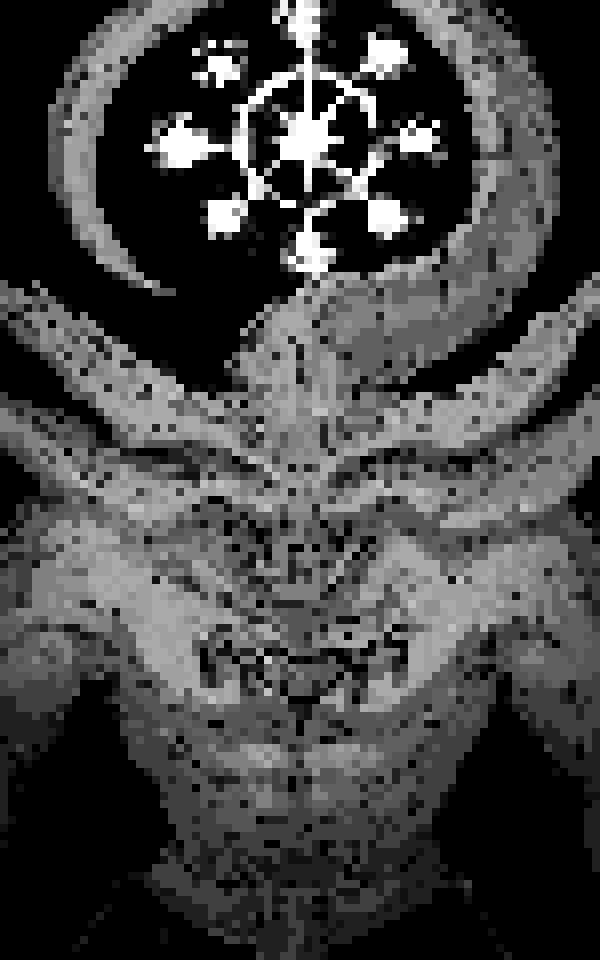
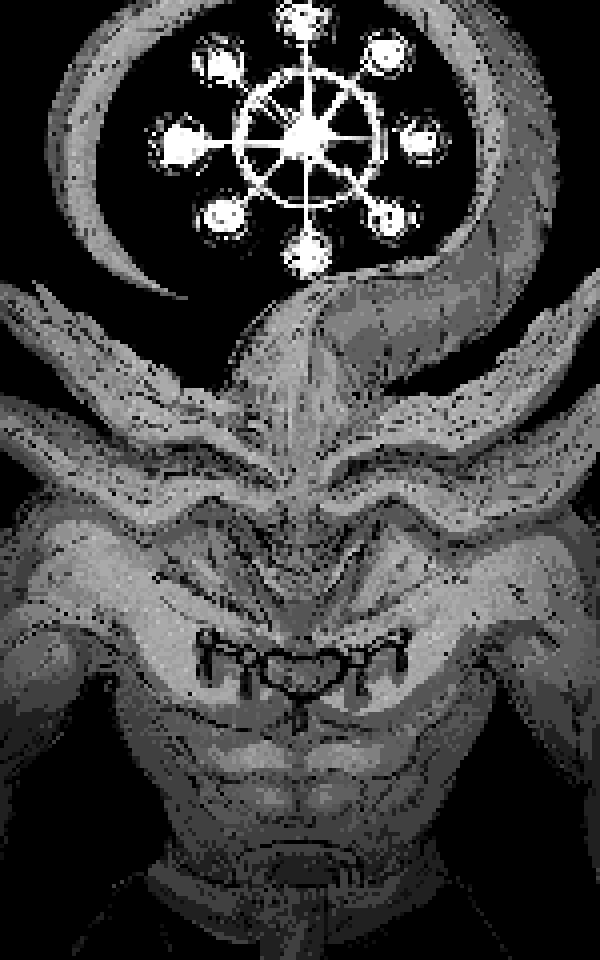
increase detail

diff --git a/src/main.rs b/src/main.rs
@@ -182,7 +182,8 @@ fn pxlate(img: DynamicImage) -> DynamicImage {
 
 fn downscale(img: DynamicImage) -> DynamicImage {
     let (width, height) = img.dimensions();
-    let (smolwidth, smolheight) = (width / 8, height / 8);
+    //let (smolwidth, smolheight) = (width / 8, height / 8);
+    let (smolwidth, smolheight) = (width / 4, height / 4); // for a more detailed image
 
     let dwnsclimg = img.resize_exact(smolwidth, smolheight, image::imageops::FilterType::Nearest);
     return dwnsclimg;
@@ -190,7 +191,8 @@ fn downscale(img: DynamicImage) -> DynamicImage {
 
 fn upscale(img: DynamicImage) -> DynamicImage {
     let (width, height) = img.dimensions();
-    let (bigwidth, bigheight) = (width * 8, height * 8);
+    //let (bigwidth, bigheight) = (width * 8, height * 8);
+    let (bigwidth, bigheight) = (width * 4, height * 4); // for a more detailed image
 
     let upsclimg = img.resize_exact(bigwidth, bigheight, image::imageops::FilterType::Nearest);
     return upsclimg;
